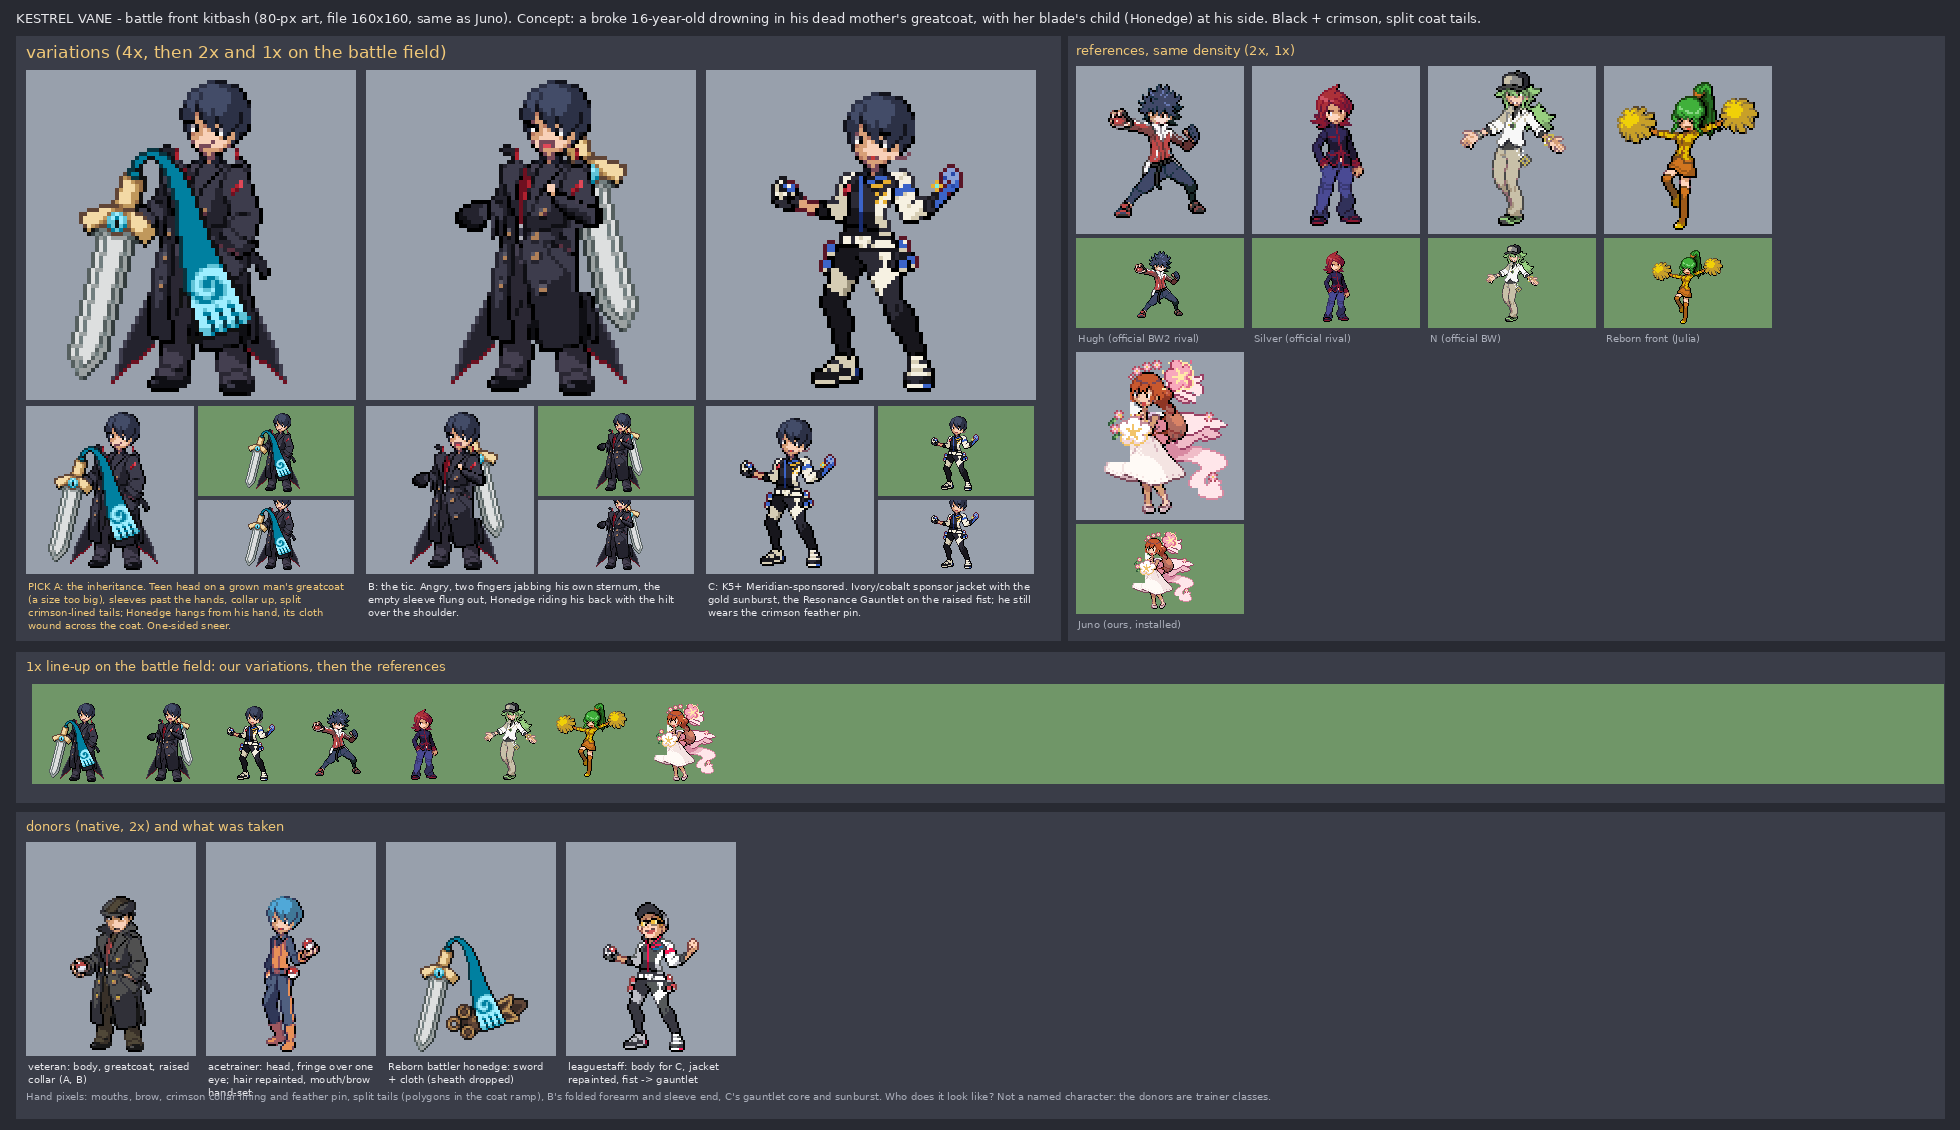
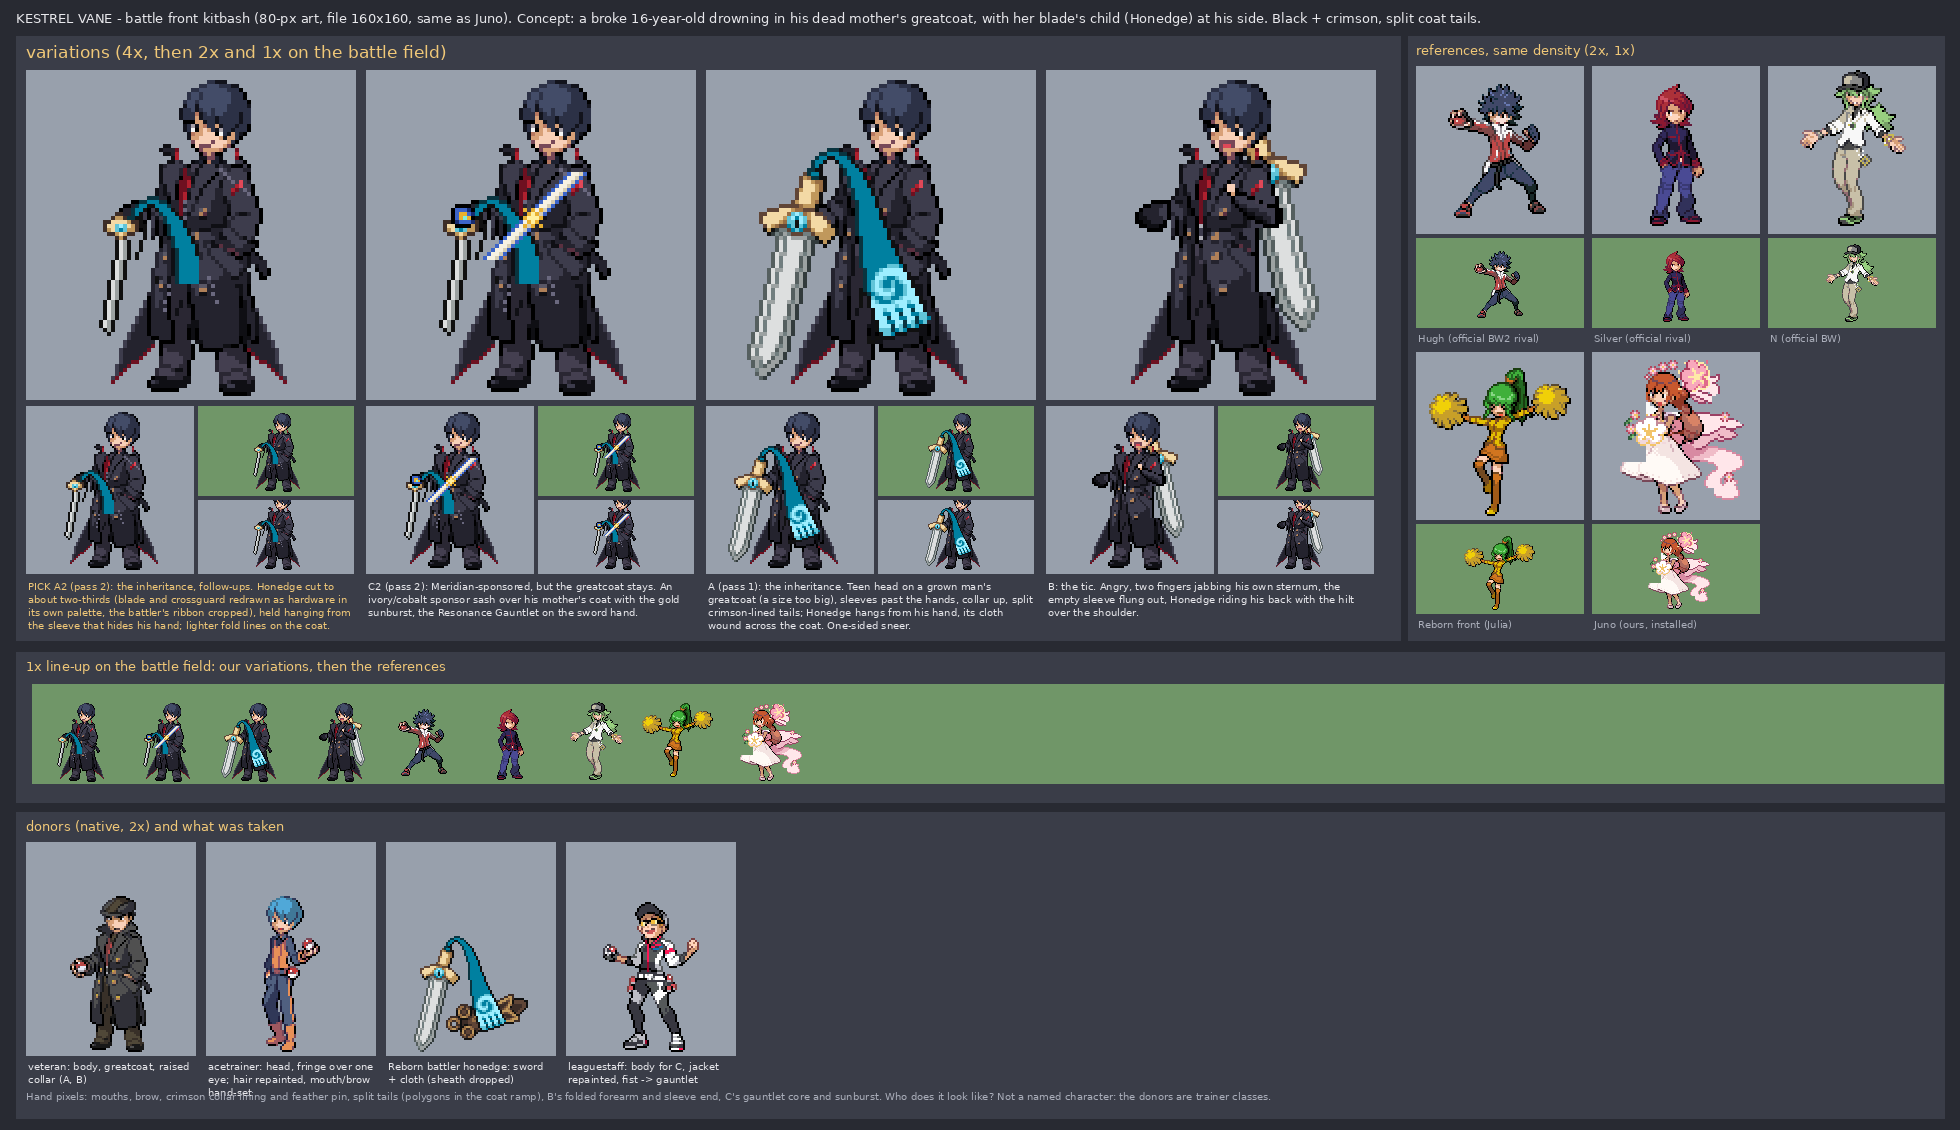
Kestrel follow-ups: smaller Honedge, coat folds, C2 keeps the greatcoat
Claude-Session: https://claude.ai/code/session_01SBLHz7mq5tij8ELd9mbfG8

diff --git a/mapgen/layouts/routes_early.py b/mapgen/layouts/routes_early.py
@@ -770,12 +770,97 @@ def overs_tile(r, n, x, y):
                 if t: r.m.over.append((2, x + dx, y + dy, t))
 
 
+# ====================================================================================================== 540 Thistledown Lea
+def build_540():
+    """Thistledown Lea (130x64, MEADOW): the extinct House Thistledown's river meadows.  The Selvedge along the south with
+    the old stone bridge (toll nobody collects) and two islets; wildflower bands and four tall-grass fields; Thistledown
+    Manor on its hill (R3_MANOR) with ruined wall, gateposts and topiary; the Brinecut mine mouth (R3_MINE) in the west
+    outcrop; the Ponyta paddock; the broken mill and mill-race; the mowers' camp (heals once); the bamboo stand; Road
+    Stone II-b; the Ha-ha (secret: the sunken wall's ditch to the manor's back garden)"""
+    W, H = 130, 64
+    r = Route(540, W, H, 'meadow', base='.')
+    m = r.m
+    r.forest_band('N', 4, wobble=2.0)
+    for cx, cy, rx, ry in ((116, 10, 9, 6), (100, 46, 6, 4), (6, 40, 5, 5), (40, 8, 7, 4)):
+        r.copse(cx, cy, rx, ry)
+    # the Selvedge along the south third, islets
+    for x in range(W):
+        c = 52 + 2.5 * (RK.vnoise(x, 0, 540, 16.0) - 0.5) * 2
+        for y in range(int(c - 4), int(c + 5)):
+            if 0 <= y < H: m.cls[y, x] = 'w'
+    m.blob(70, 52, 4, 1.6, '.', seed=3, rough=0.3, only='w'); m.blob(100, 53, 3, 1.4, '.', seed=4, rough=0.3, only='w')
+    # the manor hill (h1 / h2) and the west outcrop with the mine mouth
+    m.blob(64, 9, 17, 10, None, ht=1, seed=11, rough=0.3)
+    for y in range(0, 26):
+        for x in range(0, 18):
+            if x < 14 + 3 * RK.vnoise(0, y, 541, 7.0) and y < 22 + 2 * RK.vnoise(x, 0, 543, 7.0): m.ht[y, x] = max(m.ht[y, x], 1)
+    road = [(21, 63), (21, 52), (24, 42), (40, 36), (60, 34), (84, 33), (104, 31), (129, 31)]
+    r.road(road, w=3.0, open_=None, only='T.tw')
+    bridge = [(x, y) for y in range(H) for x in range(W) if r.road_mask[y, x] and RK.np.isin(m.cls[y, x], ['d']) and 44 <= y <= 60]
+    r.exit('S', 20, 4); r.exit('E', 30, 4)
+    r.flatten(63, 65, 18, 1); r.crossing(63, 18, w=3, rows=3)
+    r.lane([(64, 33), (64, 21)], w=2.0, open_=None)
+    r.flatten(7, 9, 22, 1)
+    r.lane([(24, 40), (14, 30), (8, 26)], w=2.0, open_=None)                          # to the mine mouth
+    r.lane([(84, 33), (90, 42), (96, 44)], w=2.0, open_=None)                         # to the broken mill
+    # the Ha-ha: a ditch round the back of the manor hill to the back garden (NE of the hill)
+    r.pocket(86, 6, 4, 3, gate=None)
+    r.lane([(84, 20), (88, 12), (87, 8)], w=1.6, open_=None)
+    r.grass(thr=0.58, scale=7.0, box=(26, 20, 128, 46))
+    r.finish_plan()
+    for (x, y) in bridge: m.cls[y, x] = 'w'; r.deck.append((x, y))
+    J = lambda e, t: P('JUNO', e, t)
+    ev = old_events('540_route3_route4.yaml', 540)
+    r.add({'type': 'warp', 'name': 'Mine mouth', 'at': [8, 24], 'link': 'R3_MINE', 'arrive': [8, 25, 'down'], 'se': 'Door exit'},
+          sign((26, 58) if False else (25, 44), 'Road sign', "THISTLEDOWN LEA -- The lands of House Thistledown (extinct). <- The Dyers' Ford - -> Gossamer Wood & Briarwick - ^ Thistledown Manor (PRIVATE. DECEASED.)"),
+          once('The Lea', (22, 46), [J('happy', 'Mum says the Thistledowns were actors. All of them. Even the dog. They played Saltmere for a hundred years and then they all died in the same winter.'),
+               J('neutral', "People say they're still up there. Rehearsing. I'd like to see that. From a distance. A long distance.")]),
+          sign((60, 22), 'Manor sign', 'THISTLEDOWN MANOR\nHome of the Thistledown Players. Closed since AF 211.'),
+          talk('Drover', (40, 26), 'NPC 25', ['Drover: Race you to the fence!', '(He wins. He always wins. He has a Ponyta.)']),
+          talk('Ponyta', (44, 22), 'Followers/PONYTA', ['(It tosses its mane. Show-off.)'], move='random'),
+          talk('Fisherman on the bridge', (23, 50), 'trainer_FISHERMAN', ["Fisherman: Bridge toll's a copper. Nobody's collected it since the house died. I just tell people. Habit."], d='left'),
+          hidden((19, 52) if False else (24, 57), 'GREATBALL', 'HiddenItem (under the bridge)'),
+          {'type': 'event', 'name': 'Mower', 'at': [80, 40], 'pages': [
+              {'graphic': {'sprite': 'NPC 03', 'dir': 'down'}, 'trigger': 'action', 'commands': [
+                  "Mower: Nobody's mown the Lea in sixty years. You can't buy land off a dead family. They won't come to the door.",
+                  {'if': '!pfm?(:mowers_heal)', 'then': ['Mower: Sit by the fire a bit. Kettle\'s on.', {'heal': True}, {'script': 'pfm_set(:mowers_heal)'}]}]},
+              {'cond': {'switch': 'CH2_THISTLE_DONE'}, 'graphic': {'sprite': 'NPC 03', 'dir': 'down'}, 'trigger': 'action', 'commands': [
+                  'Mower: Woman in grey came through at dawn with two others. Shears in her belt. Nodded to me. Mannerly. Went toward the wood.']}]},
+          trainer((52, 40), 'PICNICKER', 'Edie', "Ada beat me on Windfall Row last year. I've been training on the Lea all spring.", "...I'll write to Ada. I'll lie.", d='down'),
+          at(ev['Bryony'], 36, 30), at(ev['Hale'], 70, 48) if False else trainer((74, 46), 'FISHERMAN', 'Hale', 'You scared the fish! Now you owe me a battle.', 'Reeled in a loss. Happens.', d='down'),
+          trainer((92, 28), 'TWINS', 'Bel & Bea', 'Twins: We battle together! Always together!', "Twins: Saltmere's south. They do plays there!", d='down', double=True),
+          trainer((112, 36), 'YOUNGSTER', 'Corin', "Saltmere badge? Prove it!", "My team's the coolest! ...Was.", d='left'),
+          obj('Broken mill', (96, 42), ['The broken mill. The wheel is stuck half in the race. Someone has fished it clean of Magikarp.']),
+          obj('Bamboo stand', (110, 18), ['A bamboo stand, planted by a Thistledown who wanted "something foreign". The Pancham agree.']),
+          talk('Pancham', (108, 20), 'Followers/PANCHAM', ['(It glares at you over a bamboo shoot. Respect.)'], move='random'),
+          obj('Road Stone II-b', (120, 30), ["ROAD STONE II-b. THE WEAVERS' ROAD. \"Briarwick 1.\" The '1' has been scratched to a '2' and back again."]),
+          obj('Gateposts', (62, 23), ['Two stone gateposts with the Thistledown thistle carved on them. No gate. Gates are for people who expect visitors.']),
+          obj('The Ha-ha', (87, 8), ['(The sunken wall\'s ditch runs round the back of the hill to an overgrown garden. A cellar door, barred from inside. Something is digging behind it.)']),
+          talk('Greavard', (85, 6), 'Followers/GREAVARD', ['(It is digging very seriously. It does not want to be interrupted. It wags anyway.)'], move='random'),
+          hidden((88, 5), 'RAREBONE', 'HiddenItem (the Ha-ha)'),
+          {'type': 'berry', 'at': [30, 34], 'berry': 'CHERIBERRY'}, item((126, 20), 'SUPERPOTION'), item((4, 34), 'POKEBALL'), item((70, 51), 'GREATBALL'))
+    r.seat_events(on='.dt')
+    fd = m.front('sh_big', 64, 14, 'R3_MANOR', 'Manor door')
+    r.events += [e for e in m.events if e.get('link') == 'R3_MANOR' or e.get('name') == 'Locked door']; m.events = []
+    for n, x, y in (('sh_campfire', 78, 42), ('hb_tables', 82, 42), ('hb_shed', 84, 38), ('pf_logbench', 76, 44)):
+        r.near(n, x, y, on='.d', r=3)
+    m.fence(36, 50, 20, gaps=((42, 44),)); m.fence(36, 50, 28, gaps=((40, 41),))
+    r.dress(trees=('tr_oak', 'tr_oak2', 'tr_pink', 'tr_pine'), n_trees=W * H // 180, copses=6, scatter=12)
+    r.paint(glint=0.0)
+    cave_mouth(m, 8, 24)
+    for (cx, cy, rx, ry, k) in ((40, 14, 10, 4, 0), (90, 22, 9, 3, 1), (108, 42, 8, 3, 2), (30, 26, 6, 2, 3)):
+        flowers(r, cx, cy, rx, ry, tiles=[K.DECOR_SH['flowers'][k], K.DECOR_SH['flowers'][k + 4]], p=0.5)
+    h = head(540, 'Thistledown Lea', field='MEADOW', bgm='Route 3',
+             connections=[{'dir': 'S', 'offset': 20, 'to': 552, 'to_offset': 39}, {'dir': 'E', 'offset': 30, 'to': 524, 'to_offset': 50}], tone=[6, 4, -2, 0])
+    r.write(h, '540_thistledown_lea.yaml', '# Thistledown Lea (540). WRITTEN BY layouts/routes_early.py - edit that script.\n', '/tmp/rt/540.png' if PREV else None)
+
+
 def vn_mask(r, thr):
     from terrain import vnoise
     return np.array([[vnoise(x, y, r.seed + 9, 4.0) > thr for x in range(r.W)] for y in range(r.H)])
 
 
-BUILD = {520: build_520, 521: build_521, 541: build_541, 552: build_552, 527: build_527, 528: build_528}
+BUILD = {520: build_520, 521: build_521, 540: build_540, 541: build_541, 552: build_552, 527: build_527, 528: build_528}
 
 
 def main():

diff --git a/tools/kitbash/kestrel.py b/tools/kitbash/kestrel.py
@@ -15,13 +15,16 @@ OUT = kb.WORK + '/passes'
 NAME, SHEET = 'KESTREL', '17_kestrel.png'
 TITLE = ('KESTREL VANE - battle front kitbash (80-px art, file 160x160, same as Juno). Concept: a broke 16-year-old drowning in '
          'his dead mother\'s greatcoat, with her blade\'s child (Honedge) at his side. Black + crimson, split coat tails.')
-VARIANTS = [('A', "A: the inheritance. Teen head on a grown man's greatcoat (a size too big), sleeves past the hands, collar up, "
+VARIANTS = [('A2', "A2 (pass 2): the inheritance, follow-ups. Honedge cut to about two-thirds (blade and crossguard redrawn as "
+                    "hardware in its own palette, the battler's ribbon cropped), held hanging from the sleeve that hides his hand; "
+                    "lighter fold lines on the coat."),
+            ('C2', "C2 (pass 2): Meridian-sponsored, but the greatcoat stays. An ivory/cobalt sponsor sash over his mother's coat "
+                   "with the gold sunburst, the Resonance Gauntlet on the sword hand."),
+            ('A', "A (pass 1): the inheritance. Teen head on a grown man's greatcoat (a size too big), sleeves past the hands, collar up, "
                   "split crimson-lined tails; Honedge hangs from his hand, its cloth wound across the coat. One-sided sneer."),
             ('B', 'B: the tic. Angry, two fingers jabbing his own sternum, the empty sleeve flung out, Honedge riding '
-                  'his back with the hilt over the shoulder.'),
-            ('C', 'C: K5+ Meridian-sponsored. Ivory/cobalt sponsor jacket with the gold sunburst, the Resonance Gauntlet '
-                  'on the raised fist; he still wears the crimson feather pin.')]
-PICK = 'A'
+                  'his back with the hilt over the shoulder.')]
+PICK = 'A2'
 REFS = [('sd:hugh', 'Hugh (official BW2 rival)'), ('sd:silver', 'Silver (official rival)'), ('sd:n', 'N (official BW)'),
         ('reborn:093', 'Reborn front (Julia)')]
 DONORS = [('sd:veteran', 'veteran: body, greatcoat, raised collar (A, B)'), ('sd:acetrainer', 'acetrainer: head, fringe over one eye; hair repainted, mouth/brow hand-set'),
@@ -189,6 +192,19 @@ GAUNT = {H('ffd5bd'): H('8aa2d8'), H('dea47b'): H('3c64c8'), H('b88060'): H('284
          H('7b4141'): H('101830'), H('957d69'): H('182c70'), H('a86a31'): H('e8b030'), H('cf8f34'): H('e8b030')}
 
 
+def sponsored_coat():
+    out = build('C0')
+    S = {'i': H('f6f1e2'), 'I': H('d6cdb4'), 'c': H('3c64c8'), 'C': H('182c70'), 'y': H('e8b030'), 'Y': H('fff0a0'), 'k': BLACK}
+    # Meridian sponsor sash over the greatcoat: ivory with cobalt edges, shoulder to hip, a gold sunburst patch
+    for i in range(22):
+        x, y = 50 - i, 24 + i
+        out = mat.patch(out, x - 1, y, ['ciiIc'], S)
+    out = mat.patch(out, 38, 33, ['y.y.y', '.yYy.', 'yYYYy', '.yYy.', 'y.y.y'], S)
+    # Resonance Gauntlet on the outstretched hand (the sleeve end becomes cobalt plate with a teal core)
+    out = mat.patch(out, 20, 32, ['.kkkk.', 'kcccCk', 'kcyycC', 'kcytyk', 'kCcccC', '.kkkk.'], dict(S, t=H('7ff0e0')))
+    return out
+
+
 def sponsored():
     b = sd('leaguestaff')
     b = mat.erase(b, mat.region(b.size, [[(26, 0), (52, 0), (52, 20), (46, 23), (34, 23), (28, 20)]]))
@@ -203,7 +219,62 @@ def sponsored():
     return b
 
 
+HN = {'k': H('101010'), 'w': H('dddfdf'), 'g': H('9ca2a2'), 'G': H('555f5f'), 'y': H('f3d9a5'), 'Y': H('c0985c'),
+      'o': H('3d2d27'), 'e': H('61c4d8'), 'E': H('9eeeff'), 'b': H('0080a0'), 'B': H('09343f'), 'h': H('976d43')}
+
+
+def small_honedge():
+    """Honedge at about two-thirds of the battler: blade and crossguard are straight hardware, drawn in the battler's own
+    palette; the cloth is the battler's ribbon arc cropped."""
+    im = Image.new('RGBA', (40, 48), CLEAR)
+    im = mat.patch(im, 13, 6, ['...oo....',
+                               '..oYYo...',
+                               'ooyyyyYoo',
+                               'oyyeEeyYo',
+                               'oYyebeYYo',
+                               '.ooYyYoo.',
+                               '...oYo...'], HN)
+    # blade: 3 px wide, leaning one pixel left every 5 rows, tapering to a point
+    for i in range(24):
+        y = 13 + i; x = 16 - i // 5
+        if i < 22:
+            im = mat.patch(im, x, y, ['kwgk'], HN)
+        elif i == 22:
+            im = mat.patch(im, x, y, ['.kgk'], HN)
+        else:
+            im = mat.patch(im, x, y, ['..k.'], HN)
+    # the cloth: the battler's ribbon arc, cropped, hung from the crossguard
+    n = kb.native(kb.load(B + 'honedge.png').crop((0, 0, 192, 192)))[0]
+    rib = n.crop((40, 22, 60, 46)); p = rib.load()
+    teal = (H('0080a0'), H('09343f'), H('61c4d8'), H('9eeeff'), H('101010'))
+    for y in range(rib.size[1]):
+        for x in range(rib.size[0]):
+            if p[x, y] not in teal:
+                p[x, y] = CLEAR
+    rib = mat.clean_orphans(rib)
+    out = Image.new('RGBA', im.size, CLEAR); out.paste(rib, (17, 0)); out.alpha_composite(im)
+    return out
+
+
+def coat_highlights(im):
+    # a few lighter fold lines so the coat isn't one black mass at 1x (along the shoulder, the lapel edge, the hem folds)
+    hi = H('6a687e')
+    pts = [(47, 23), (48, 24), (49, 25), (50, 26), (52, 27), (53, 28), (54, 29),          # right shoulder seam
+           (38, 30), (38, 31), (38, 33), (38, 35), (38, 37),                              # lapel edge
+           (44, 50), (45, 52), (45, 54), (46, 56), (34, 52), (34, 54), (33, 56), (33, 58)]   # hem folds
+    p = im.load()
+    for (x, y) in pts:
+        if p[x, y] in COAT:
+            p[x, y] = hi
+    return im
+
+
 def build(var='A'):
+    if var == 'A2':
+        out = build('A0')
+        return out
+    if var == 'C2':
+        return sponsored_coat()
     if var == 'C':
         out = sponsored()
         return face_at(out, -4, 3, 'brood')
@@ -214,6 +285,11 @@ def build(var='A'):
     if var == 'A':
         hn = honedge()
         t = Image.new('RGBA', (80, 80), CLEAR); t.paste(hn, (-18, -6)); out.alpha_composite(t)
+    if var in ('A0', 'C0'):
+        out = sleeve_end(out)
+        out = coat_highlights(out)
+        hn = small_honedge()
+        t = Image.new('RGBA', (80, 80), CLEAR); t.paste(hn, (5, 28)); out.alpha_composite(t)
     if var == 'B':
         out = sleeve_end(tap_arm(out))
         hn = mat.flip(honedge())

diff --git a/mapgen/layouts/routekit.py b/mapgen/layouts/routekit.py
@@ -12,6 +12,7 @@ snow (52, rimewood.snowmap)."""
 import os, sys, math, random
 sys.path.insert(0, os.path.dirname(os.path.abspath(__file__)))
 import numpy as np
+np = np
 import rkit as K
 from rkit import C, STAMPS
 from terrain import vnoise
